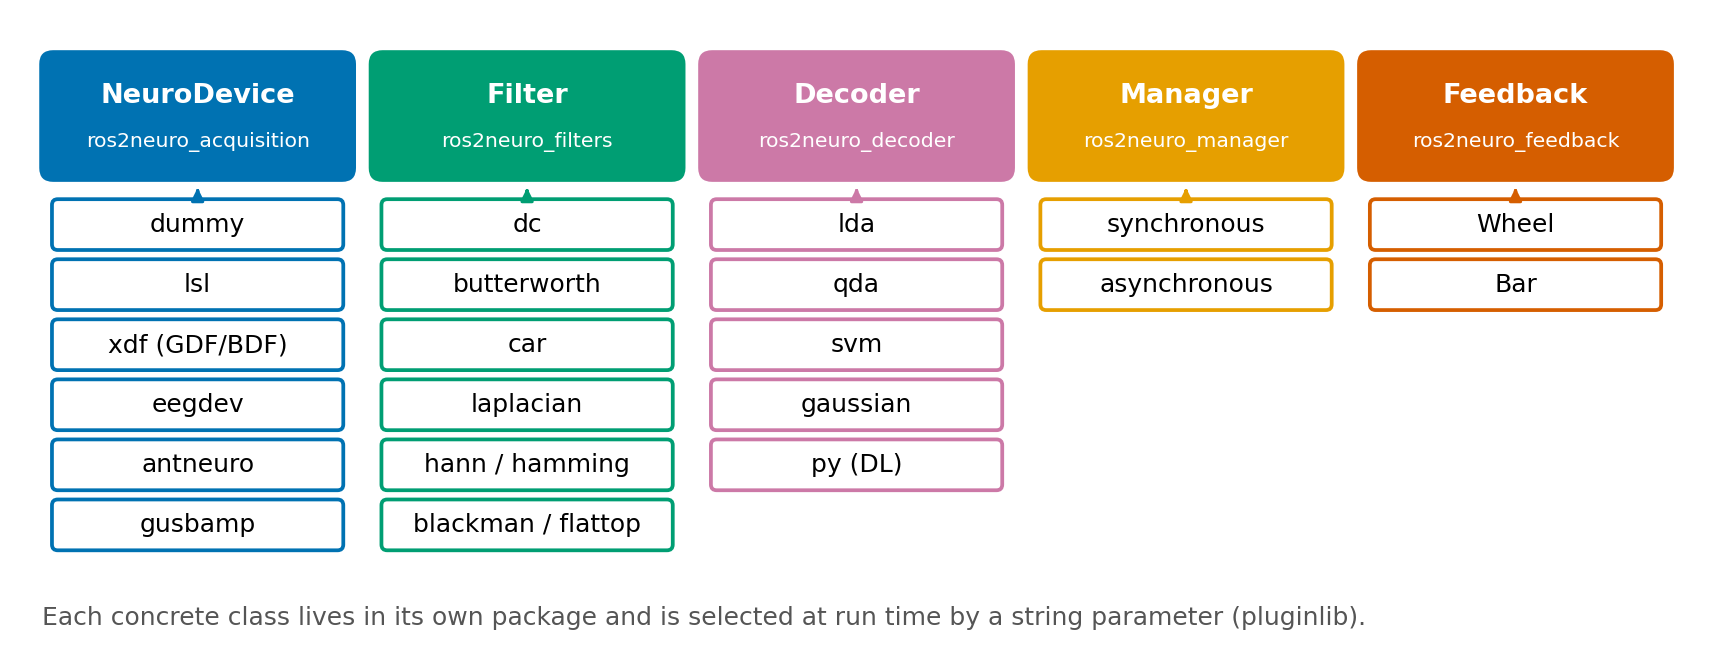
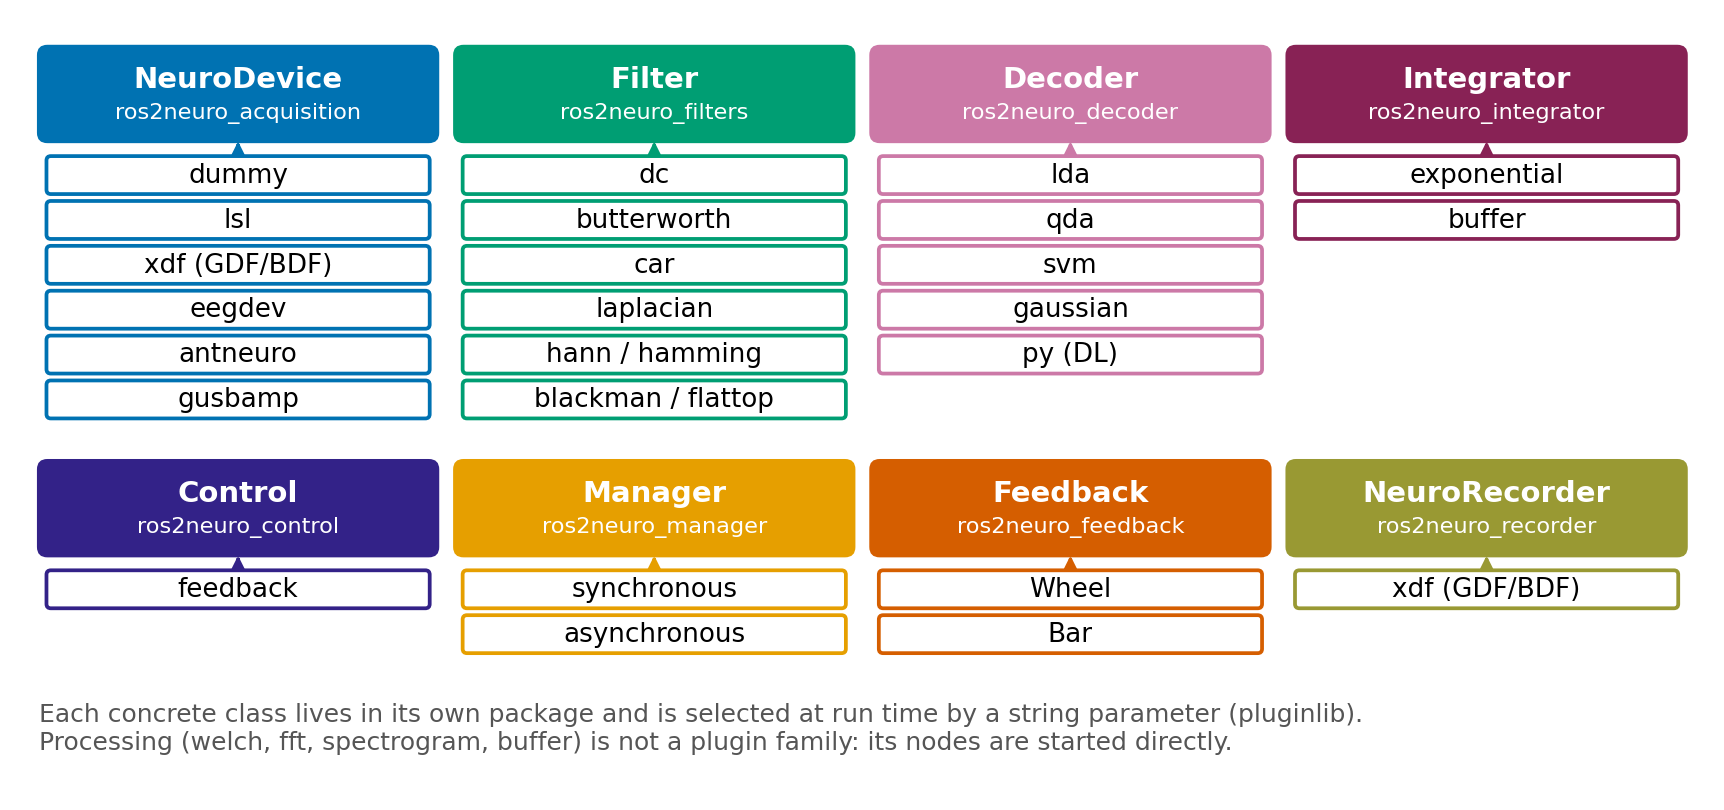
Organization page: decoder plugins (Sklearn, Braindecode), filter classes, acquisition services; changelog of 2026-11-12

diff --git a/profile/README.md b/profile/README.md
@@ -101,7 +101,7 @@ for r in \
     ros2neuro_filters_flattop ros2neuro_filters_hamming ros2neuro_filters_hann \
     ros2neuro_processing_spectral ros2neuro_processing_buffer ros2neuro_decoder \
     ros2neuro_decoder_lda ros2neuro_decoder_qda ros2neuro_decoder_svm \
-    ros2neuro_decoder_gaussian ros2neuro_decoder_py ros2neuro_decoder_converters \
+    ros2neuro_decoder_gaussian ros2neuro_decoder_sklearn ros2neuro_decoder_braindecode ros2neuro_decoder_py ros2neuro_decoder_converters \
     ros2neuro_integrator ros2neuro_integrator_exponential ros2neuro_integrator_buffer \
     ros2neuro_control ros2neuro_control_feedback ros2neuro_manager \
     ros2neuro_manager_synchronous ros2neuro_manager_asynchronous ros2neuro_feedback \
@@ -135,43 +135,36 @@ The [hardware-free tutorial](https://ros2neuro.github.io/docs/tutorials/hardware
 
 A closed-loop BCI is a distributed real-time system: neural samples are acquired, filtered, decoded and accumulated into a command while a person watches a feedback and an experimental protocol (calibration, evaluation, control) runs. ros2neuro implements every step of this loop as a separate node, so each research group can replace or add a single component (a new amplifier, a new decoder, a new feedback, a robot) without touching the rest. It is designed first of all for endogenous BCIs (e.g. motor imagery) and for continuous, self-paced control of assistive devices such as wheelchairs and telepresence robots.
 
-![ros2neuro closed loop](https://raw.githubusercontent.com/ros2neuro/.github/main/profile/ros2neuro_loop.png)
+![The ros2neuro loop](https://raw.githubusercontent.com/ros2neuro/.github/main/profile/fig_loop.png)
 
 <p align="center">
   <img src="https://raw.githubusercontent.com/ros2neuro/.github/main/profile/ros2neuro_wheelchair.png" alt="ros2neuro BMI driving a wheelchair" width="480">
 </p>
 
-The four figures below go from the simplest view to the most detailed one. They are explained in the [architecture page](https://ros2neuro.github.io/docs/concepts/architecture/) of the documentation.
+### The loop
 
-### The big picture
+The **signal chain** (acquisition → filter chain → features → decoder → integrator, the top row) turns the amplifier signal into class probabilities. **Control** decides what to do with them (thresholds, outcome of a trial, reset of the integrator) and sends the values to the **feedback**, which the subject sees: that closes the loop. The **manager** runs the trials of an experiment and writes their phases on an event bus (the hatched frame), where the control and the feedback also talk and from which the recorder stores everything next to the signal. The dashed boxes are extensions that are not part of the stack: the *Robot Control* is **your** plugin, a second control that takes the same predictions and drives a robot. The loop is explained in the [architecture page](https://ros2neuro.github.io/docs/concepts/architecture/) of the documentation.
 
-The **signal chain** (acquisition → filters → processing → decoder → integrator) turns the amplifier signal into class probabilities. **Control** decides what to do with them (thresholds, outcome of a trial, reset of the integrator) and publishes the signal that drives the **feedback**; the **manager** runs the trials of an experiment and writes their phases on an event bus; the recorder and the visualizer only listen.
+Two rules are worth knowing. Only two kinds of service call exist, the acquisition services (`start`, `stop`, `quit`) and the integrator **reset** that control asks for: there are no ROS actions. And every node reads **its own parameters**; what several nodes share (the classes, the ids of the events, the thresholds) is one global `/**` section of the parameter file that each of them loads, and no node asks another for a parameter ([protocols](https://ros2neuro.github.io/docs/concepts/protocols/), [shared parameters](https://ros2neuro.github.io/docs/concepts/shared-parameters/)).
 
-![ros2neuro overview](https://raw.githubusercontent.com/ros2neuro/.github/main/profile/ros2neuro_1_overview.png)
+### The plugins
 
-### Topics, messages and plugins
+Each colour is a **family**: a package that defines a base class and a generic node, and under it the plugins available (amplifiers, filters, decoders, integrators, recorders, control, protocols, drawings). Each plugin is a separate package that registers against the base class and is chosen at run time by a parameter. The classes and their pluginlib ids are in the [plugins page](https://ros2neuro.github.io/docs/concepts/plugins/).
 
-Every package that has plugins lists them (amplifiers, filters, decoders, integrators, protocols, drawings...) and every arrow carries one **topic** and one **message type**. The event bus `/neuroevent` links the manager, control, the feedback and the recorder. The dashed plugin in `ros2neuro_control` is where **your** code goes to connect a robot. [Messages](https://ros2neuro.github.io/docs/concepts/messages/), [topics](https://ros2neuro.github.io/docs/concepts/topics/) and [plugins](https://ros2neuro.github.io/docs/concepts/plugins/) are described in the documentation.
+![ros2neuro plugin families](https://raw.githubusercontent.com/ros2neuro/.github/main/profile/fig_plugins.png)
 
-![ros2neuro topics and plugins](https://raw.githubusercontent.com/ros2neuro/.github/main/profile/ros2neuro_2_topics.png)
+| Family | Parent class | Plugin classes |
+|---|---|---|
+| acquisition | `ros2neuro::acquisition::NeuroDevice` | `DummyDevice`, `LSLDevice`, `EGDDevice`, `EEGODevice`, `GUSBampDevice`, `XDFDevice` |
+| filters | `ros2neuro::filters::Filter<float>` | `DcFloat`, `ButterworthFloat`, `CarFloat`, `LaplacianFloat`, `HannFloat`, `HammingFloat`, `BlackmanFloat`, `FlattopFloat` (instances of the templates `Dc<T>`, ...) |
+| decoder | `ros2neuro::decoder::Decoder` | `Gaussian`, `LDA`, `QDA`, `SVM`, `Sklearn`, `Braindecode` |
+| integrator | `ros2neuro::integrator::Integrator` | `Exponential`, `Buffer` |
+| recorder | `ros2neuro::recorder::NeuroRecorder` | `XDFRecorder` |
+| control | `ros2neuro::control::Control` | `ros2neuro::control::Feedback` |
+| manager | `ros2neuro::manager::Manager` | `Synchronous`, `Asynchronous` |
+| feedback | `ros2neuro::feedback::Feedback` | `Wheel`, `Bar` |
 
-### Services
-
-Only two kinds of service call exist: starting and stopping the acquisition, and the integrator **reset** that control asks for. There are no ROS actions, and no node asks another node for its parameters.
-
-![ros2neuro services](https://raw.githubusercontent.com/ros2neuro/.github/main/profile/ros2neuro_3_services.png)
-
-### Parameters
-
-Every node reads **its own parameters**. What several nodes share (the classes, the ids of the events, the thresholds) is one global `/**` section of the parameter file that each of them loads: see [protocols](https://ros2neuro.github.io/docs/concepts/protocols/) and [shared parameters](https://ros2neuro.github.io/docs/concepts/shared-parameters/).
-
-![ros2neuro parameters](https://raw.githubusercontent.com/ros2neuro/.github/main/profile/ros2neuro_4_parameters.png)
-
-### Extension points
-
-Each base class (acquisition device, filter, decoder, integrator, control, protocol, feedback) is defined by a package, and each implementation is a separate package that registers against it as a plugin and is chosen at run time by a parameter.
-
-![ros2neuro extension points](https://raw.githubusercontent.com/ros2neuro/.github/main/profile/ros2neuro_plugins.png)
+Parent and plugins share the namespace `ros2neuro::<family>`.
 
 ---
 
@@ -218,7 +211,9 @@ Every package is a separate repository. Details, parameters and topics of each o
 - [**ros2neuro_decoder_qda**](https://github.com/ros2neuro/ros2neuro_decoder_qda) Decoder plugin for QDA
 - [**ros2neuro_decoder_svm**](https://github.com/ros2neuro/ros2neuro_decoder_svm) Decoder plugin for SVM
 - [**ros2neuro_decoder_gaussian**](https://github.com/ros2neuro/ros2neuro_decoder_gaussian) Decoder plugin for Gaussian classifier
-- [**ros2neuro_decoder_py**](https://github.com/ros2neuro/ros2neuro_decoder_py) Python decoder for deep-learning models
+- [**ros2neuro_decoder_sklearn**](https://github.com/ros2neuro/ros2neuro_decoder_sklearn) Decoder plugin for scikit-learn models (skops)
+- [**ros2neuro_decoder_braindecode**](https://github.com/ros2neuro/ros2neuro_decoder_braindecode) Decoder plugin for deep-learning models of braindecode (PyTorch)
+- [**ros2neuro_decoder_py**](https://github.com/ros2neuro/ros2neuro_decoder_py) Python decoder node for deep-learning models
 - [**ros2neuro_decoder_converters**](https://github.com/ros2neuro/ros2neuro_decoder_converters) Converters from Matlab decoders to `.r2nd`
 - [**ros2neuro_integrator**](https://github.com/ros2neuro/ros2neuro_integrator) Generic interface for evidence accumulation
 - [**ros2neuro_integrator_exponential**](https://github.com/ros2neuro/ros2neuro_integrator_exponential) Integrator plugin for exponential smoothing

diff --git a/CHANGELOG.md b/CHANGELOG.md
@@ -6,6 +6,28 @@ This organization hosts the ROS 2 packages for the ros2neuro ecosystem.
 
 This list is used temporarily to track changes made across the organization repositories.
 
+- 2026-11-12 [PaoloFori] **docs**, **ros2neuro_devel_test**: The MATLAB download works on its own: `ros2neuro_matlab.zip` carries `reference/` (the first 512 samples of the input and of the ROS 2 output of every filter, and a test model), so `check_functions` runs all 21 checks; the new `ros2neuro_matlab_example.zip` is one recorded evaluation (GDF, CSV of every topic, yaml and model), so `check_evaluation` redoes the whole chain without ROS 2. `check_evaluation` takes the launcher folder as a third argument.
+- 2026-11-12 [PaoloFori] **ros2neuro_recorder_xdf**: `xdf_recorder.launch.py` passed `output_directory` and `max_pending_frames`, which the recorder does not read: the arguments are now `output` (folder of the file) and `max_queue_size`, and the file is no longer always written in the working directory. The integration test places its event with `header.stamp` (the recorder positions events by stamp, not by `onset`).
+- 2026-11-12 [PaoloFori] **ros2neuro_acquisition_dummy**: The sinusoids are continuous across frames (before, every frame restarted from phase 0).
+- 2026-11-12 [PaoloFori] **ros2neuro_devel_test**: `mi_loop.launch.xml` used an undeclared `config_file` argument (it is `config`).
+- 2026-11-12 [PaoloFori] **ros2neuro_decoder_sklearn**: New package. Decoder plugin `ros2neuro::decoder::Sklearn` for scikit-learn models (any estimator or Pipeline with `predict_proba`, saved with skops), run inside the C++ decoder node (embedded Python), configured like every decoder with `decoder.manifest`. Axes matched by label / value, `features.mode: all | selection`, output in the order of `output.fields`. Example model (StandardScaler + LDA on the PSD of test.gdf) and its training script; tests against `predict_proba`.
+- 2026-11-12 [PaoloFori] **ros2neuro_devel_test**: New launchers `sklearn_bars` / `sklearn_wheel` (made-up LogisticRegression on a selection of features) and `sklearn_4class_bars` (fictitious 4-class RandomForest), the gaussian chain with the scikit-learn plugin; models written by `scripts/make_sklearn_models.py`.
+- 2026-11-12 [PaoloFori] **ros2neuro_decoder_braindecode**: New package. Decoder plugin `ros2neuro::decoder::Braindecode` that runs a braindecode (PyTorch) model inside the C++ decoder node (embedded Python, pybind11). It reads the model folders of `ros2neuro_decoder_py` (given with `decoder.manifest`, like every decoder; braindecode manifests now have `type: ros2neuro::decoder::Braindecode`, the old `EEGClassifier` moved to `wrapper`) and gives the same probabilities (956 predictions of a whole run, difference 0). Tests against the output of the Python node.
+- 2026-11-12 [PaoloFori] **ros2neuro_decoder**: The node reads only `decoder.name` and `decoder.type` of the manifest (the type picks the plugin); the plugin reads and checks the rest, so every decoder, spectral or deep-learning, is configured the same way (`decoder.manifest`). The plugin parameters `decoder.params.*` given in the launch file or yaml now reach the plugin (they were never declared, so the plugin got none of them).
+- 2026-11-12 [PaoloFori] **ros2neuro_devel_test**: The `eegnet*` launchers have `decoder:=plugin` (default, the braindecode plugin) or `decoder:=python` (the node of `ros2neuro_decoder_py`).
+- 2026-11-12 [PaoloFori] **ros2neuro_manager**, **ros2neuro_control_feedback**, **ros2neuro_feedback**: `event.shown` must be a power of two (the display events are recognised by its bit); the feedback now validates the event ids like the manager and control.
+- 2026-11-12 [PaoloFori] **ros2neuro_filters_laplacian**: The layout is refused at configure when an id is below 0 or above `nchannels`, and a frame with a number of channels other than `nchannels` is dropped with a clear error (before, both read or wrote out of the mask).
+- 2026-11-12 [PaoloFori] **ros2neuro_decoder**: A missing or malformed `manifest.yaml` makes the node log the reason and exit with 1 (before, an uncaught exception aborted it).
+- 2026-11-12 [PaoloFori] **ros2neuro_processing_buffer**: Source formatted for `ament_uncrustify` (no change of behaviour).
+- 2026-11-12 [PaoloFori] **All packages, docs**: READMEs and documentation pages checked against the code and corrected (parameters, defaults, launch arguments, messages, examples that did not compile or configure).
+- 2026-11-12 [PaoloFori] **ros2neuro_feedback_bar**: At the end of a trial that ended in a Timeout every bar keeps its color but paler (mixed with white) until the boom ends, as if it went to the background (the wheel does the same with its arc); before, the bars showed nothing for a Timeout. Hit and Miss are unchanged (the bar that was reached lights up).
+- 2026-11-11 [PaoloFori] **ros2neuro_devel_test**: Fixed the launchers with the rest (`gaussian_rest_{bars,wheel}`, `gaussian_4class_rest_bars`, `eegnet_rest_{bars,wheel}`): the feedback loaded the layout without the rest, so it drew neither the cue of the rest nor the yellow dot of a rest that ends without touching a threshold. New `scripts/check_launch_layouts.py` checks that control, manager and feedback load the same layout in every launcher.
+- 2026-11-11 [PaoloFori] **ros2neuro_control_feedback**, **ros2neuro_control**: The plugin is now `ros2neuro::control::Feedback` (was `ros2neuro::control_feedback::Feedback`): update the `plugin` parameter of the control node. Its internal classes moved to `ros2neuro::control::feedback`. Parent and plugins now share the namespace `ros2neuro::<family>` in every family.
+- 2026-11-11 [PaoloFori] **ros2neuro_manager**, **ros2neuro_manager_synchronous**, **ros2neuro_manager_asynchronous**, **ros2neuro_feedback**, **ros2neuro_feedback_wheel**, **ros2neuro_feedback_bar**: The base classes are renamed `ros2neuro::manager::Manager` (was `ManagerPlugin`) and `ros2neuro::feedback::Feedback` (was `FeedbackPlugin`). The plugin ids (`Synchronous`, `Asynchronous`, `Wheel`, `Bar`) do not change; the header file names do not change.
+- 2026-11-11 [PaoloFori] **ros2neuro_devel_test**: MATLAB library `matlab/r2n/` (one function per stage: car, dc, laplacian, windows, butterworth, welch, gaussian, exponential integrator, threshold, yaml) and `matlab/check_functions.m` (21 checks, tolerance in float32 ULP). `check_evaluation.m` uses the library and takes the integrator resets as ROS 2 made them (events and values travel on different topics, the reset can be one frame earlier than the rule), reporting the difference. `topic_csv_recorder.py` ends cleanly when the launch stops it.
+- 2026-11-11 [PaoloFori] **ros2neuro_filters_car**: `compare_car.m` tolerance is 4 float32 ULP of the largest input sample (a fixed 1e-3 is below 1 ULP at 1e4 and failed on 2 of 327680 values).
+- 2026-11-11 [PaoloFori] **ros2neuro_decoder_converters**: README and documentation say what the converter expects from the Matlab SMR Gaussian classifier (model, order of the features, axes, processing before the decoder, classes); `check_decoder.m` reads the Matlab SMR training toolbox from `SMR_TRAIN_ROOT`.
+- 2026-11-11 [PaoloFori] **docs**: The plugin and loop explanations use two figures (`fig_loop.png`, `fig_plugins.png`); new page "Reproducibility in MATLAB" with the zip of the functions; new tutorial "Filter bank CSP" (`tutorial_fbcsp`); the VR tutorial is updated to the current flow (thresholds in the flow, phases on `/neuroevent`).
 - 2026-11-10 [PaoloFori] **ros2neuro_devel_test**: Added the MATLAB check of a whole evaluation (`matlab/check_evaluation.m`, one file: loads the recorded GDF and the yaml of the launcher, applies Laplacian, Welch, Gaussian decoder and exponential integrator, marks thresholds and trial events, compares with the CSV of the run), the launcher `gaussian_4class_matlab.launch.xml` (evaluation with GDF + CSV capture) and the node `topic_csv_recorder.py`.
 - 2026-11-10 [PaoloFori] **ros2neuro_control**, **ros2neuro_control_feedback**: New packages. `ros2neuro_control` is the control layer (parent class `Control`, input `NeuroPrediction`, node `control_node`); `ros2neuro_control_feedback` is the plugin that drives the feedback (calibration, evaluation, control): thresholds, outcome of the trials, flow of the feedback (`NeuroControl` with the header of the `NeuroPrediction`, the values and the thresholds in force).
 - 2026-11-10 [PaoloFori] **ros2neuro_manager**, **ros2neuro_manager_synchronous**, **ros2neuro_manager_asynchronous**: The manager only runs the trials and writes the events; plugins renamed `ros2neuro::manager::Synchronous` and `ros2neuro::manager::Asynchronous`; no node asks another one for parameters (shared ones are a global `/**` section).
